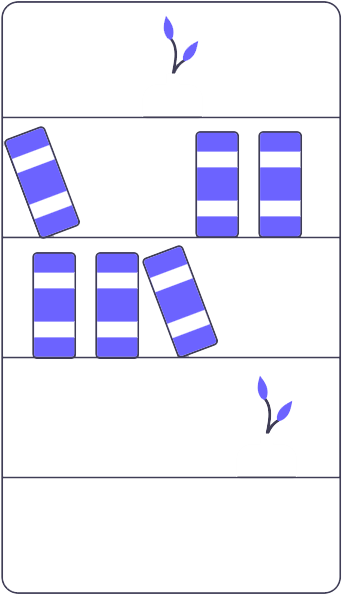
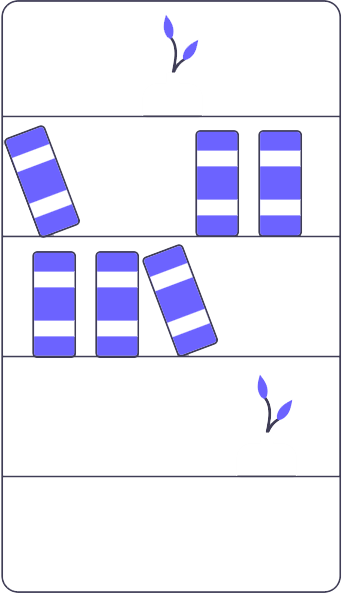
Changes in placeholder styling

diff --git a/src/sass/_searchResults.scss b/src/sass/_searchResults.scss
@@ -26,8 +26,24 @@
   // padding: 15px;
 }
 
+.placeholder__illu {
+  width: 100%;
+  display: flex;
+  margin: auto;
+}
+
 .bookshelf-illu {
   height: 270px;
+  margin: auto;
+}
+
+.hr__container {
+  width: 600px;
+}
+
+.bookshelf-hr {
+  color: $color-dark-blue;
+  border: 0.1px solid $color-grey;
 }
 
 .bookshelf-text {
@@ -277,6 +293,10 @@
     margin-bottom: 40px;
   }
 
+  .hr__container {
+    width: 450px;
+  }
+
   .result-details__spinner {
     height: 80px;
   }
@@ -418,6 +438,9 @@
 @media screen and (min-width: $bp-small) and (max-width: $bp-medium) {
   .bookshelf-text {
     margin-bottom: 35px;
+  }
+  .hr__container {
+    width: 450px;
   }
 
   .result-details__spinner {
@@ -619,6 +642,9 @@
     margin-bottom: 20px;
   }
 
+  .hr__container {
+    width: 340px;
+  }
   .result-details__spinner {
     height: 40px;
   }
@@ -819,6 +845,10 @@
 @media screen and (min-width: $bp-extrasmall) and (max-width: $bp-smaller) {
   .bookshelf-text {
     margin-bottom: 12px;
+  }
+
+  .hr__container {
+    width: 256px;
   }
 
   .bookshelf-illu {

diff --git a/index.html b/index.html
@@ -111,9 +111,13 @@
           <img class="result-details__spinner" src="src/img/spinner.svg" />
           </div> -->
           <div class="result-details__placeholder">
-            <div class="bookshelf-text">Start by searching for a book's title or it's author...</div>
+            <!-- <div class="bookshelf-text">Start by searching for a book's title or it's author...</div> -->
+            
             <div class="placeholder__illu">
-              <img class="bookshelf-illu" src="src/img/undraw_Bookshelves2.png" />
+              <img class="bookshelf-illu" src="src/img/undraw_Bookshelves3.png" />
+            </div>
+            <div class="hr__container">
+              <hr class="bookshelf-hr">
             </div>
             
           </div>

diff --git a/src/js/controller.js b/src/js/controller.js
@@ -21,10 +21,13 @@ import 'regenerator-runtime/runtime';
 
 constants.form.addEventListener('submit', async function (e) {
   e.preventDefault();
+  const userInput = helpers.getQuery();
+  if (!userInput) return;
+
   view.clearContainer(constants.resultDetailsContainer);
   view.clearContainer(constants.resultListContainer);
   view.renderSpinner();
-  const userInput = helpers.getQuery();
+
   const data = await helpers.getJSON(
     `https://www.googleapis.com/books/v1/volumes?q=${userInput}&langRestrict=en&maxResults=40`
   );
